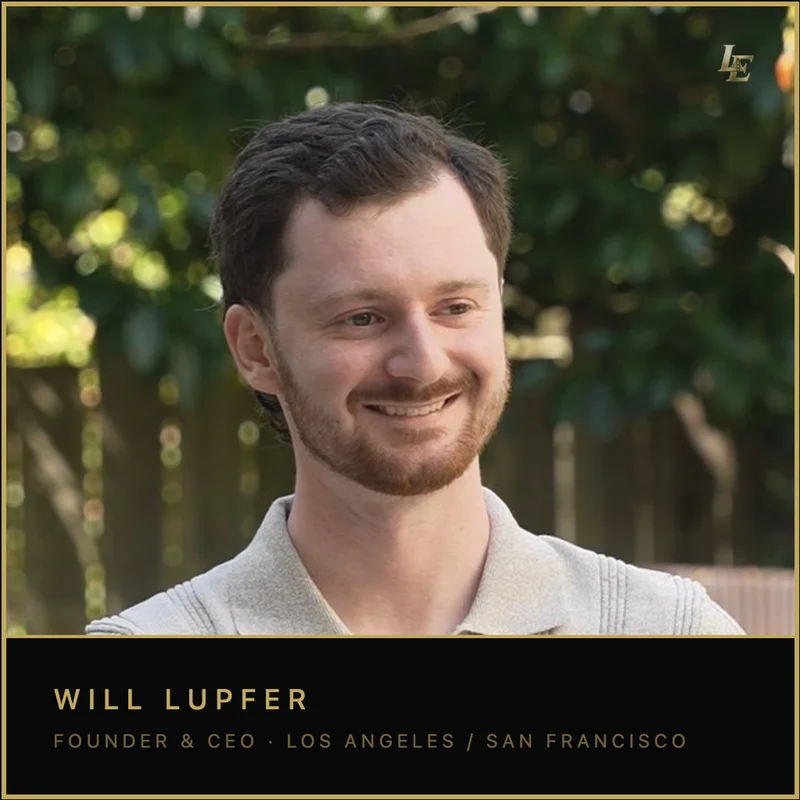
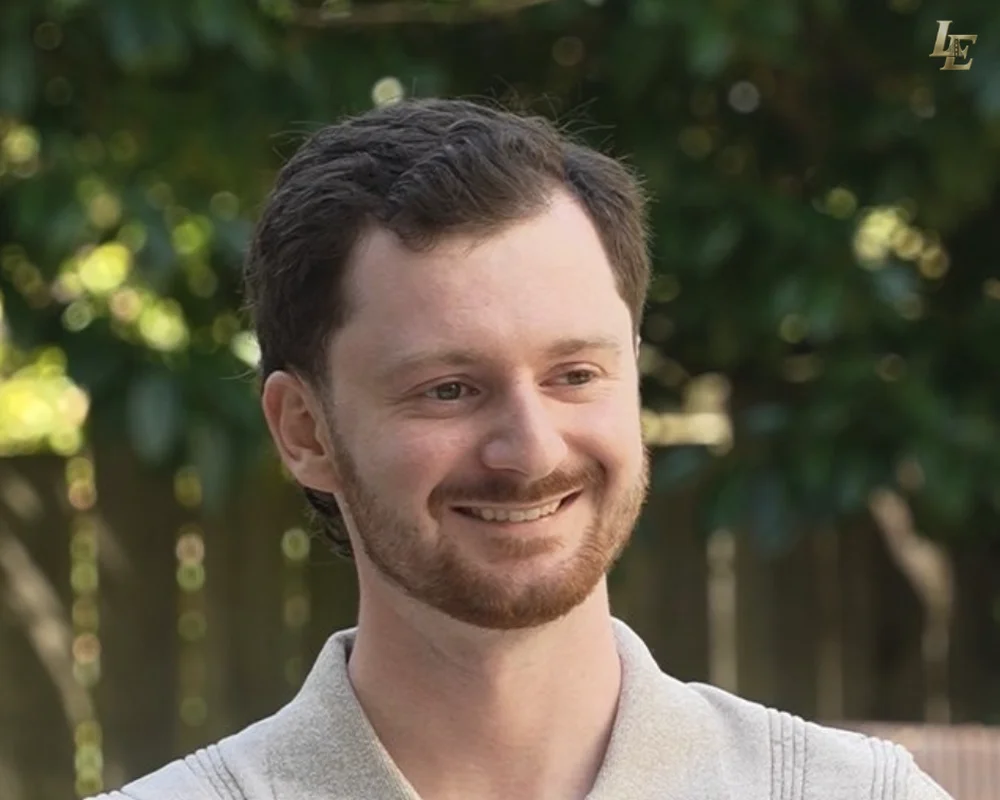
feat(team): GoldCard squircle cards, cropped portraits, Team nav link
- New reusable components/gold-card.tsx: Events-card squircle shell
  (gold accent border + gold wash on hover, pointer-only tilt, stagger
  reveal); team cards consume it — old bordered/gold-glow variant gone
- Team portraits re-cropped to clean 1000x800 photos (baked gold frame
  and caption strip removed)
- Nav: Team link between About and Contact; nav inventory lock updated

diff --git a/components/team.tsx b/components/team.tsx
@@ -1,21 +1,21 @@
 "use client"
 
 import Image from "next/image"
-import { AnimatePresence, motion, useInView, useMotionValue, useSpring, useTransform } from "framer-motion"
+import { AnimatePresence, motion, useInView } from "framer-motion"
 import { useRef, useState } from "react"
 import { MapPin } from "lucide-react"
 
 import { ScrollReveal } from "@/components/scroll-reveal"
 import { GoldShineText } from "@/components/gold-shine-text"
+import { GoldCard } from "@/components/gold-card"
 import { getTeam, type TeamMember } from "@/lib/data/team"
 import { useIsMobile } from "@/hooks/use-mobile"
 import { cn } from "@/lib/utils"
 
-const TEAM_IMAGE_SIZE = 800
-const CARD_EASE = [0.22, 1, 0.36, 1] as const
-
-// Same tilt range as events/artists/services/about: ±6deg, snappy spring
-const TILT_SPRING = { stiffness: 420, damping: 32 }
+// Portraits are cropped clean photos (5:4) — name/title/frame from the source
+// artwork removed; the card renders name, title, location, and bio as text.
+const TEAM_IMAGE_WIDTH = 1000
+const TEAM_IMAGE_HEIGHT = 800
 
 const team = getTeam()
 
@@ -34,137 +34,89 @@ function TeamCard({
   isExpanded: boolean
   onToggle: () => void
 }) {
-  const cardRef = useRef<HTMLElement>(null)
   const [imageReady, setImageReady] = useState(false)
-  const x = useMotionValue(0)
-  const y = useMotionValue(0)
-  const rotateX = useSpring(useTransform(y, [-0.5, 0.5], [6, -6]), TILT_SPRING)
-  const rotateY = useSpring(useTransform(x, [-0.5, 0.5], [-6, 6]), TILT_SPRING)
-
-  const handleMouseMove = (e: React.MouseEvent<HTMLElement>) => {
-    if (isMobile || !cardRef.current) return
-    const rect = cardRef.current.getBoundingClientRect()
-    const centerX = rect.left + rect.width / 2
-    const centerY = rect.top + rect.height / 2
-    x.set((e.clientX - centerX) / rect.width)
-    y.set((e.clientY - centerY) / rect.height)
-  }
-
-  const handleMouseLeave = () => {
-    if (isMobile) return
-    x.set(0)
-    y.set(0)
-  }
 
   return (
-    <motion.article
-      ref={cardRef}
-      initial={{ opacity: 0, y: 32 }}
-      animate={isInView ? { opacity: 1, y: 0 } : {}}
-      transition={{ duration: 0.45, delay: 0.12 + index * 0.1, ease: CARD_EASE }}
-      className="group relative overflow-hidden rounded-2xl border bg-card transition-[border-color,box-shadow] duration-200 ease-snap"
-      onMouseMove={handleMouseMove}
-      onMouseLeave={handleMouseLeave}
-      style={isMobile ? undefined : { rotateX, rotateY, transformPerspective: 800 }}
-      whileHover={!isExpanded ? { scale: 1.01 } : undefined}
-    >
-      <motion.div
-        animate={{
-          borderColor: isExpanded ? "rgba(168, 130, 52, 0.45)" : "var(--border)",
-          boxShadow: isExpanded
-            ? "0 0 0 1px rgba(168, 130, 52, 0.2), 0 0 20px rgba(95, 78, 48, 0.06)"
-            : "0 0 0 1px transparent",
-        }}
-        transition={{ duration: 0.22, ease: [0.16, 1, 0.3, 1] }}
-        className="rounded-2xl border border-transparent"
+    <GoldCard index={index} isRevealed={isInView} enableTilt={!isMobile}>
+      <motion.button
+        type="button"
+        onClick={onToggle}
+        className="group w-full cursor-pointer text-left outline-none focus-visible:ring-2 focus-visible:ring-accent/40 focus-visible:ring-offset-2 focus-visible:ring-offset-background rounded-2xl sm:rounded-3xl"
+        aria-expanded={isExpanded}
+        aria-controls={`team-bio-${index}`}
+        id={`team-bio-trigger-${index}`}
       >
-        <motion.button
-          type="button"
-          onClick={onToggle}
-          className="group w-full cursor-pointer text-left outline-none focus-visible:ring-2 focus-visible:ring-accent/40 focus-visible:ring-offset-2 focus-visible:ring-offset-background rounded-2xl"
-          aria-expanded={isExpanded}
-          aria-controls={`team-bio-${index}`}
-          id={`team-bio-trigger-${index}`}
-        >
-          {/* Portraits are pre-designed 800x800 cards (name/title baked into the artwork),
-              so no gradient overlay and no big name repeated directly under the image. */}
-          <div className="relative aspect-square w-full overflow-hidden rounded-t-2xl bg-muted">
-            <div
-              className={cn(
-                "skeleton-shimmer pointer-events-none absolute inset-0 z-0",
-                "motion-safe:transition-opacity motion-safe:duration-300",
-                "motion-reduce:transition-none",
-                imageReady ? "opacity-0" : "opacity-100"
-              )}
-              aria-hidden
-            />
-            <Image
-              src={member.image}
-              alt={`${member.name}, ${member.title}`}
-              width={TEAM_IMAGE_SIZE}
-              height={TEAM_IMAGE_SIZE}
-              sizes="(max-width: 640px) 100vw, (max-width: 1024px) 50vw, 25vw"
-              loading="lazy"
-              onLoad={() => setImageReady(true)}
-              className={cn(
-                "relative z-[1] w-full h-full object-cover",
-                "motion-safe:transition-opacity motion-safe:duration-300 motion-reduce:transition-none",
-                "motion-safe:group-hover:scale-[1.03] motion-safe:transition-[opacity,transform] motion-safe:duration-500",
-                imageReady ? "opacity-100" : "opacity-0"
-              )}
-            />
+        <div className="relative aspect-[5/4] w-full overflow-hidden bg-muted">
+          <div
+            className={cn(
+              "skeleton-shimmer pointer-events-none absolute inset-0 z-0",
+              "motion-safe:transition-opacity motion-safe:duration-300",
+              "motion-reduce:transition-none",
+              imageReady ? "opacity-0" : "opacity-100"
+            )}
+            aria-hidden
+          />
+          <Image
+            src={member.image}
+            alt={`${member.name}, ${member.title}`}
+            width={TEAM_IMAGE_WIDTH}
+            height={TEAM_IMAGE_HEIGHT}
+            sizes="(max-width: 640px) 100vw, (max-width: 1024px) 50vw, 25vw"
+            loading="lazy"
+            onLoad={() => setImageReady(true)}
+            className={cn(
+              "relative z-[1] w-full h-full object-cover object-center",
+              "motion-safe:transition-[opacity,transform] motion-safe:duration-500 motion-reduce:transition-none",
+              "motion-safe:group-hover:scale-[1.08]",
+              imageReady ? "opacity-100" : "opacity-0"
+            )}
+          />
+        </div>
+        <div className="p-4 md:p-5">
+          <div className="flex items-center gap-2 mb-1">
+            <MapPin size={14} className="text-accent shrink-0" aria-hidden />
+            <span className="text-xs tracking-normal text-muted-foreground">{member.location}</span>
           </div>
-          <div className="p-4 md:p-5">
-            <div className="flex items-center gap-2 mb-1">
-              <MapPin size={14} className="text-accent shrink-0" aria-hidden />
-              <span className="text-xs tracking-normal text-muted-foreground">{member.location}</span>
-            </div>
-            <h3
-              className={cn(
-                "text-lg md:text-xl font-bold tracking-tight transition-colors duration-200 ease-snap",
-                isExpanded ? "text-accent" : "text-foreground group-hover:text-accent/90"
-              )}
-            >
-              {member.name}
-            </h3>
-            <p className="mt-1 text-sm text-muted-foreground">{member.title}</p>
+          <h3 className="text-lg md:text-xl font-bold tracking-tight text-foreground transition-colors duration-200 ease-snap group-hover:text-accent/90">
+            {member.name}
+          </h3>
+          <p className="mt-1 text-sm text-muted-foreground">{member.title}</p>
+          <motion.span
+            className="mt-3 inline-flex items-center gap-2 text-sm text-accent/80"
+            initial={false}
+            animate={{ opacity: isExpanded ? 1 : 0.6 }}
+            transition={{ duration: 0.2 }}
+          >
+            <span className="tracking-normal">{isExpanded ? "Less" : "More"}</span>
             <motion.span
-              className="mt-3 inline-flex items-center gap-2 text-sm text-accent/80"
-              initial={false}
-              animate={{ opacity: isExpanded ? 1 : 0.6 }}
-              transition={{ duration: 0.2 }}
+              animate={{ rotate: isExpanded ? 180 : 0 }}
+              transition={{ duration: 0.22, ease: [0.16, 1, 0.3, 1] }}
             >
-              <span className="tracking-normal">{isExpanded ? "Less" : "More"}</span>
-              <motion.span
-                animate={{ rotate: isExpanded ? 180 : 0 }}
-                transition={{ duration: 0.22, ease: [0.16, 1, 0.3, 1] }}
-              >
-                ▼
-              </motion.span>
+              ▼
             </motion.span>
-          </div>
-        </motion.button>
+          </motion.span>
+        </div>
+      </motion.button>
 
-        <AnimatePresence initial={false}>
-          {isExpanded && (
-            <motion.div
-              id={`team-bio-${index}`}
-              role="region"
-              aria-labelledby={`team-bio-trigger-${index}`}
-              initial={{ height: 0, opacity: 0 }}
-              animate={{ height: "auto", opacity: 1 }}
-              exit={{ height: 0, opacity: 0 }}
-              transition={{ height: { duration: 0.28, ease: [0.16, 1, 0.3, 1] }, opacity: { duration: 0.18 } }}
-              className="overflow-hidden border-t border-border/80"
-            >
-              <div className="px-4 py-4 md:px-5 md:py-5 bg-muted/30">
-                <p className="text-muted-foreground leading-relaxed text-sm">{member.bio}</p>
-              </div>
-            </motion.div>
-          )}
-        </AnimatePresence>
-      </motion.div>
-    </motion.article>
+      <AnimatePresence initial={false}>
+        {isExpanded && (
+          <motion.div
+            id={`team-bio-${index}`}
+            role="region"
+            aria-labelledby={`team-bio-trigger-${index}`}
+            initial={{ height: 0, opacity: 0 }}
+            animate={{ height: "auto", opacity: 1 }}
+            exit={{ height: 0, opacity: 0 }}
+            transition={{ height: { duration: 0.28, ease: [0.16, 1, 0.3, 1] }, opacity: { duration: 0.18 } }}
+            className="overflow-hidden border-t border-border/80"
+          >
+            <div className="px-4 py-4 md:px-5 md:py-5 bg-muted/30">
+              <p className="text-muted-foreground leading-relaxed text-sm">{member.bio}</p>
+            </div>
+          </motion.div>
+        )}
+      </AnimatePresence>
+    </GoldCard>
   )
 }
 
@@ -189,7 +141,7 @@ export function Team() {
         </h2>
 
         {/* items-start: an expanded bio must not stretch the neighboring cards.
-            4-up on desktop keeps the cards compact (artists-card scale), 2-up tablet, 1-up phones. */}
+            4-up on desktop keeps the cards compact (events-card scale), 2-up tablet, 1-up phones. */}
         <div className="grid grid-cols-1 sm:grid-cols-2 lg:grid-cols-4 gap-4 sm:gap-6 items-start">
           {team.map((member, i) => (
             <TeamCard

diff --git a/components/gold-card.tsx b/components/gold-card.tsx
@@ -1,0 +1,81 @@
+"use client"
+
+import { motion, useMotionValue, useSpring, useTransform } from "framer-motion"
+import { useRef, type ReactNode } from "react"
+
+import { cn } from "@/lib/utils"
+
+// Same tilt range as events/artists/services/about: ±6deg, snappy spring
+const TILT_SPRING = { stiffness: 420, damping: 32 }
+const CARD_EASE = [0.22, 1, 0.36, 1] as const
+
+/**
+ * Shared event-card shell: squircle (`rounded-2xl sm:rounded-3xl`), `bg-card`
+ * surface, gold accent border + soft gold wash on hover, ±6° tilt on pointer
+ * devices, and the staggered rise-in reveal. Visuals match the Events cards
+ * so any section can reuse the same card language (Team uses it today).
+ */
+export function GoldCard({
+  index = 0,
+  isRevealed,
+  enableTilt = true,
+  className,
+  children,
+}: {
+  /** Position in the grid — drives the stagger delay of the reveal. */
+  index?: number
+  /** Reveal gate, usually a `useInView` result on the section. */
+  isRevealed: boolean
+  /** Disable on touch devices (pass `!isMobile`); tilt is pointer-only. */
+  enableTilt?: boolean
+  className?: string
+  children: ReactNode
+}) {
+  const cardRef = useRef<HTMLElement>(null)
+  const x = useMotionValue(0)
+  const y = useMotionValue(0)
+  const rotateX = useSpring(useTransform(y, [-0.5, 0.5], [6, -6]), TILT_SPRING)
+  const rotateY = useSpring(useTransform(x, [-0.5, 0.5], [-6, 6]), TILT_SPRING)
+
+  const handleMouseMove = (e: React.MouseEvent<HTMLElement>) => {
+    if (!enableTilt || !cardRef.current) return
+    const rect = cardRef.current.getBoundingClientRect()
+    const centerX = rect.left + rect.width / 2
+    const centerY = rect.top + rect.height / 2
+    x.set((e.clientX - centerX) / rect.width)
+    y.set((e.clientY - centerY) / rect.height)
+  }
+
+  const handleMouseLeave = () => {
+    if (!enableTilt) return
+    x.set(0)
+    y.set(0)
+  }
+
+  return (
+    <motion.article
+      ref={cardRef}
+      initial={{ opacity: 0, y: 40 }}
+      animate={isRevealed ? { opacity: 1, y: 0 } : {}}
+      transition={{ duration: 0.45, delay: index * 0.08, ease: CARD_EASE }}
+      className={cn(
+        "group relative overflow-hidden rounded-2xl sm:rounded-3xl bg-card border border-border",
+        "hover:border-accent/50 transition-[border-color] duration-150 ease-out shadow-xl",
+        className
+      )}
+      onMouseMove={handleMouseMove}
+      onMouseLeave={handleMouseLeave}
+      style={enableTilt ? { rotateX, rotateY, transformPerspective: 800 } : { rotateX: 0, rotateY: 0 }}
+    >
+      {children}
+      {/* Gold wash on hover — the "shine through" layer, same as the Events cards */}
+      <div
+        className={cn(
+          "absolute inset-0 pointer-events-none rounded-2xl sm:rounded-3xl bg-accent/5",
+          "opacity-0 group-hover:opacity-100 motion-safe:transition-opacity motion-safe:duration-200"
+        )}
+        aria-hidden
+      />
+    </motion.article>
+  )
+}

diff --git a/tests/unit/look-and-feel.test.ts b/tests/unit/look-and-feel.test.ts
@@ -186,7 +186,7 @@ describe("partner logo CSS system", () => {
 
 describe("navigation structure", () => {
   it("defines all expected section nav links", () => {
-    const expected = ["#events", "#services", "#artists", "#gallery", "#about", "#contact"]
+    const expected = ["#events", "#services", "#artists", "#gallery", "#about", "#team", "#contact"]
     for (const href of expected) {
       expect(navigation, `nav missing link to ${href}`).toContain(`href: "${href}"`)
     }

diff --git a/components/navigation.tsx b/components/navigation.tsx
@@ -20,6 +20,7 @@ const navLinksBase = [
   { name: "Blog", href: "/blog" },
   { name: "Gallery", href: "#gallery" },
   { name: "About", href: "#about" },
+  { name: "Team", href: "#team" },
   { name: "Contact", href: "#contact" },
 ] as const
 

diff --git a/docs/DESIGN.md b/docs/DESIGN.md
@@ -29,7 +29,7 @@
 - **Artists:** From `data/artists.yml`. Card: image, name, genre, bio, social links (Spotify, Apple Music, Instagram, etc.), optional featured track as a native lazy-loaded Spotify or SoundCloud iframe. Spotify embeds force dark player chrome (`theme=0`), and SoundCloud uses the compact non-visual player so music widgets do not change layout or visual mode between light and dark themes.
 - **Services:** From `data/services.yml`. Display as defined in YAML (e.g. titles, descriptions, icons).
 - **Partners:** From `data/partners.yml`; corporate row renders in `components/services.tsx` via `getPartners()`. Logos render in a **single-row auto-scrolling marquee** (`.partner-marquee` in `app/globals.css`: the chip row is duplicated once, animated `translateX 0 → -50%` over 50s linear infinite for a seamless loop, with edge fade masks; pauses on `:hover`/`:focus-within` so logos stay clickable; the duplicate copy is `aria-hidden` + `inert`; `prefers-reduced-motion` disables the animation and falls back to a static `overflow-x: auto` row); each link is a fixed **`size-*` circle** with **`bg-card`**, **`border-2`**, `overflow-hidden`, and theme-specific **`.partner-logo-chip`** shadow (see `app/globals.css`). Mono marks use `.partner-logo`: **light** ≈ black ink on the card; **dark** ≈ softened white via `invert` + `brightness(0.93–0.94)` with opacities from `--partner-logo-opacity*`. Optional YAML `imageClassName` (e.g. `scale-[0.9]`) normalizes visual weight. Optional `logoTreatment`: `outline`, `solid`, `natural` (full-color, per-theme `brightness`/`saturate` tweaks). Use **`natural`** when the PNG is mostly a flat-filled shape (e.g. circular brand mark with gradient)—mono `brightness(0)` would render as a solid blob. Square assets with **baked-in backgrounds** (SEA//SIDE black, Mutuals gradient tile, Soundcheck cream) use `natural` + a large scale (`scale-[1.6]`) so they fill the circular chip full-bleed and the corners crop away instead of showing a square-in-circle.
-- **Team:** From `data/team.yml` → `lib/data/team.ts` (`getTeam()`); renders in `components/team.tsx` as its own home section (`#team`, mounted right after About via a `DeferredHomeSection`). Compact card grid (1-col / `sm:grid-cols-2` / `lg:grid-cols-4`, `items-start`) using the shared 3D language: ±6° tilt springs (desktop only, guarded by `useIsMobile` like Artists), hover image scale, gold border/glow on the expanded card, and a click/tap **expandable bio** region (`AnimatePresence` height, same interaction as the About value cards — works on touch). Card footer shows MapPin location, name, title, and the More/Less ▼ toggle. The portrait webps in `public/images/team/` are pre-designed 800×800 cards with name/title baked into the artwork, so there is no big name overlay or gradient on the image itself.
+- **Team:** From `data/team.yml` → `lib/data/team.ts` (`getTeam()`); renders in `components/team.tsx` as its own home section (`#team`, mounted right after About via a `DeferredHomeSection`, linked from the nav between About and Contact). Cards use the shared **`GoldCard`** shell (`components/gold-card.tsx`) — the reusable event-card squircle: `rounded-2xl sm:rounded-3xl`, `bg-card`, `border-border` with gold `accent/50` border + soft `bg-accent/5` gold wash on hover, ±6° tilt springs (pointer devices only, `enableTilt={!isMobile}`), and the staggered rise-in reveal. Compact grid (1-col / `sm:grid-cols-2` / `lg:grid-cols-4`, `items-start`), 5:4 portrait with hover zoom, footer with MapPin location, name, title, and a click/tap **expandable bio** (`AnimatePresence` height, same interaction as the About value cards — works on touch). The portrait webps in `public/images/team/` are cropped clean 1000×800 photos — the source artwork's gold frame and baked caption are removed at asset-prep time; all text renders as real DOM text.
 
 **Layout containment.** Every section/nav `container` wrapper carries an explicit width cap — default **`max-w-7xl`** (1280px), narrower where intentional (gallery `max-w-6xl`, careers `max-w-5xl`, legal `max-w-2xl`, event detail `max-w-4xl`) — because Tailwind v4's bare `container` only caps at the raw breakpoint (1536px) and would render nearly edge-to-edge on ~1440–1600px viewports. New sections must pair `container mx-auto` with a `max-w-*` cap so all content shares the same centered margins. Full-bleed surfaces (hero media, reviews marquee) are the deliberate exceptions.
 

diff --git a/docs/CHANGELOG.md b/docs/CHANGELOG.md
@@ -6,6 +6,8 @@ All notable project changes are recorded here.
 
 ### Changed
 
+- **Team section restyle (owner request):** team cards now use the new reusable **`GoldCard`** shell (`components/gold-card.tsx`) — the Events-card squircle with gold accent border + gold wash on hover and pointer-only tilt — replacing the bordered/gold-glow card variant. Team portraits re-cropped to clean 1000×800 photos (baked gold frame + caption strip removed from the source artwork). Added the **Team** link to the primary nav (between About and Contact; locked in `tests/unit/look-and-feel.test.ts`).
+
 - **Mobile load-time fix: production build switched from `next build --webpack` back to the default Turbopack build** (`package.json` `_build`). On Next 16.1.6 the webpack fallback ships Next devtools-overlay code in the root client JS: ~362 KB gzip (1.3 MB raw) on every page vs ~129 KB gzip (442 KB raw) with Turbopack — ~233 KB gzip less JavaScript to download/parse per page, the dominant mobile cost. The old Turbopack client-reference manifest gap on dynamic routes no longer reproduces: the full gate (dynamic-route smoke, asset crawl, Playwright console crawl against `next start`) passes on the Turbopack build. `EmptyPagesManifestPlugin` stays in `next.config.mjs` for explicit `--webpack` builds. Documented in `docs/DEPLOYMENT.md` / `docs/ARCHITECTURE.md`. **Verify dynamic routes (`/events/[slug]`, `/gallery/p/[id]`, APIs) on the Vercel Preview before promoting.**
 
 ### Added
